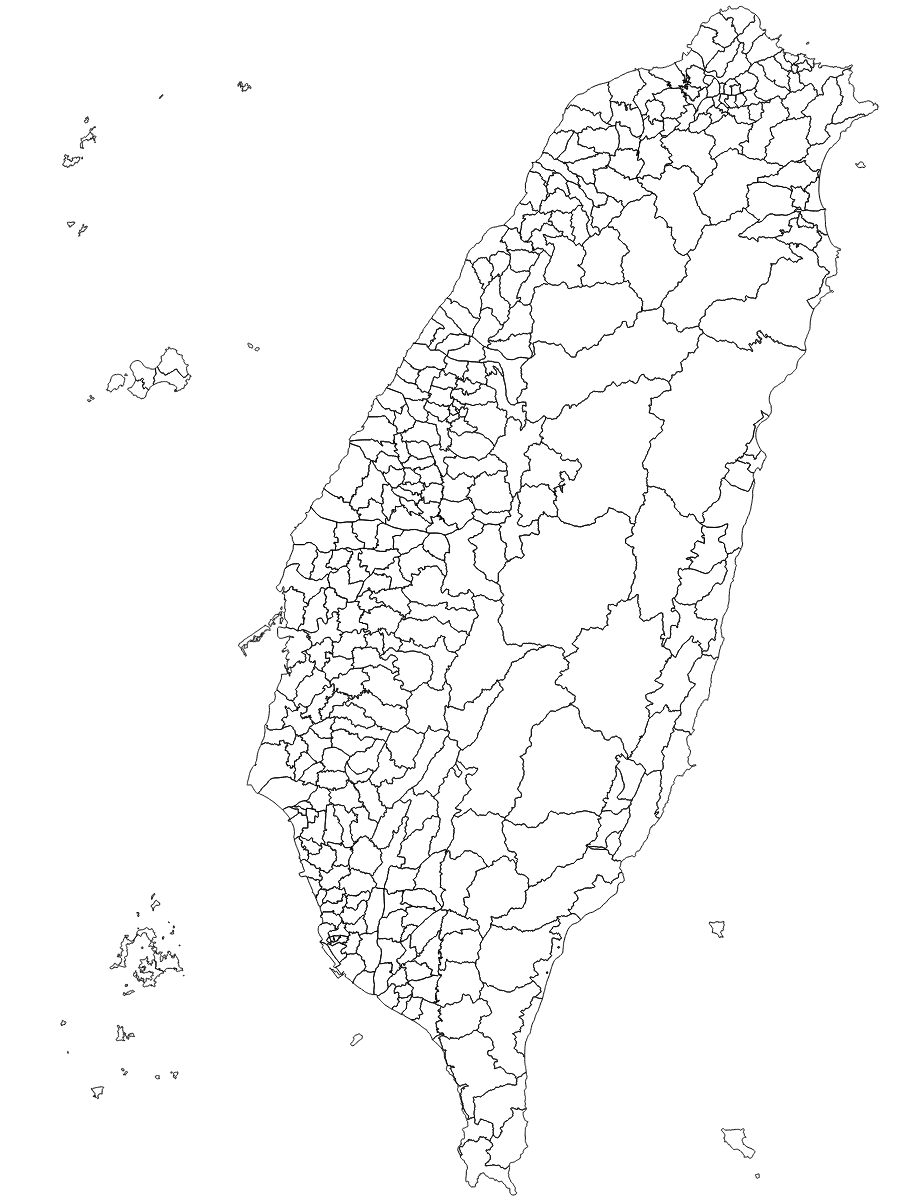
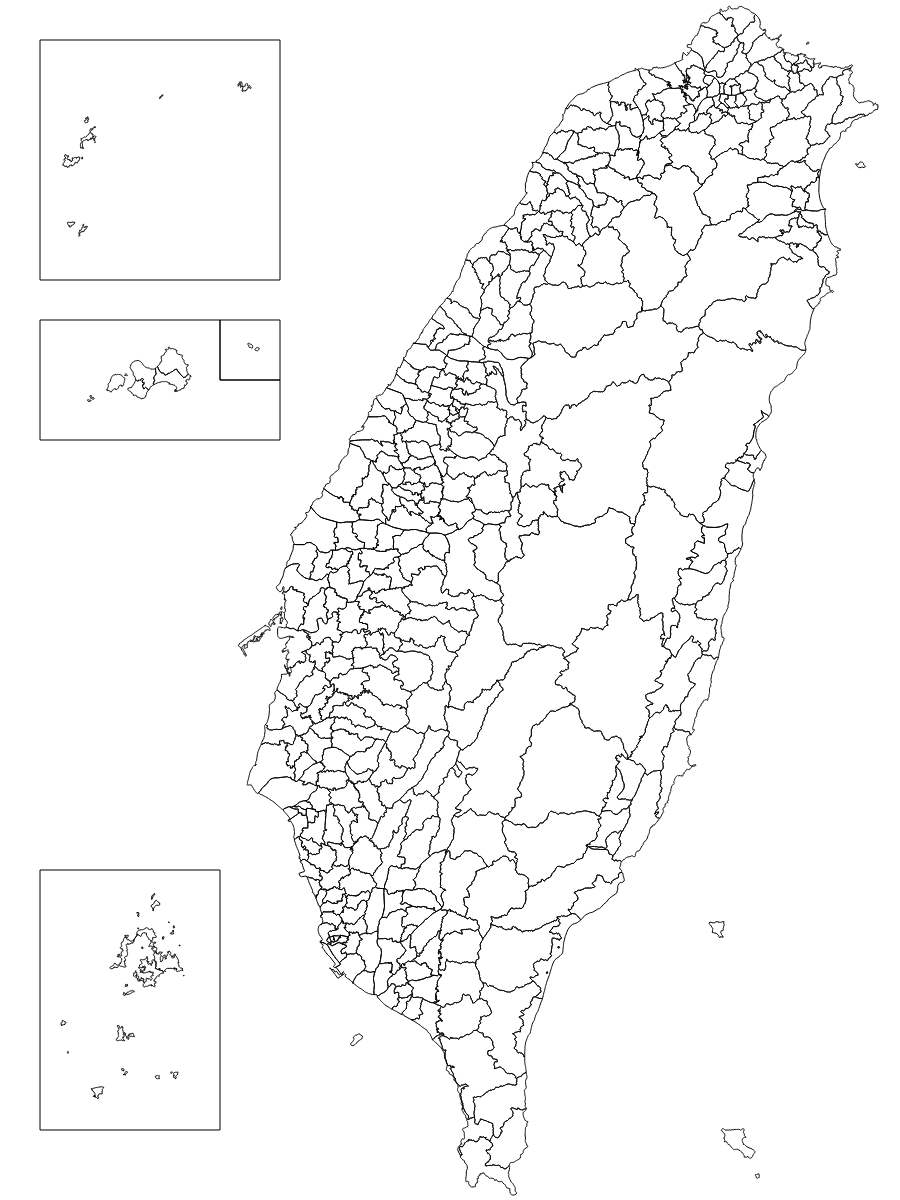
Add Composition Borders (#20)
* Add Composition Borders

* Lint and Tweaks

* lint

diff --git a/src/mercatorTw.js b/src/mercatorTw.js
@@ -177,34 +177,72 @@ export default () => {
   mercatorTw.fitExtent = (extent, object) => fitExtent(mercatorTw, extent, object);
   mercatorTw.fitSize = (size, object) => fitSize(mercatorTw, size, object);
 
-  mercatorTw.drawCompositionBorders = (context) => {
+  // Get the compositionBorderPoints because we want to export these
+  // for use as generating geojson.
+  mercatorTw.compositionBorderPoints = () => {
     const k = mainland.scale();
     const t = mainland.translate();
     const x = t[0];
     const y = t[1];
-    ['penghu', 'lienchiang', 'kinmen', 'wuqiu'].forEach((areaKey) => {
+
+    // Points from top left to bottom left, clockwise.
+    const points = (areaKey) => {
       const areaCenterX = geoCoordinates[areaKey].offsetX;
       const areaCenterY = geoCoordinates[areaKey].offsetY;
-      context.moveTo(
-        x + ((areaCenterX - (geoCoordinates[areaKey].width / 2)) / defaultScale) * k,
-        y + ((areaCenterY - (geoCoordinates[areaKey].height / 2)) / defaultScale) * k,
-      );
-      context.lineTo(
-        x + ((areaCenterX + (geoCoordinates[areaKey].width / 2)) / defaultScale) * k,
-        y + ((areaCenterY - (geoCoordinates[areaKey].height / 2)) / defaultScale) * k,
-      );
-      context.lineTo(
-        x + ((areaCenterX + (geoCoordinates[areaKey].width / 2)) / defaultScale) * k,
-        y + ((areaCenterY + (geoCoordinates[areaKey].height / 2)) / defaultScale) * k,
-      );
-      context.lineTo(
-        x + ((areaCenterX - (geoCoordinates[areaKey].width / 2)) / defaultScale) * k,
-        y + ((areaCenterY + (geoCoordinates[areaKey].height / 2)) / defaultScale) * k,
-      );
-      context.closePath();
+      const dx = geoCoordinates[areaKey].width / 2;
+      const dy = geoCoordinates[areaKey].height / 2;
+      return [
+        [
+          x + ((areaCenterX - dx) / defaultScale) * k,
+          y + ((areaCenterY - dy) / defaultScale) * k,
+        ],
+        [
+          x + ((areaCenterX + dx) / defaultScale) * k,
+          y + ((areaCenterY - dy) / defaultScale) * k,
+        ],
+        [
+          x + ((areaCenterX + dx) / defaultScale) * k,
+          y + ((areaCenterY + dy) / defaultScale) * k,
+        ],
+        [
+          x + ((areaCenterX - dx) / defaultScale) * k,
+          y + ((areaCenterY + dy) / defaultScale) * k,
+        ],
+      ];
+    };
+
+    return ['penghu', 'lienchiang', 'kinmen', 'wuqiu'].map((areaKey) => {
+      const areaPoints = points(areaKey);
+
+      // Kinmen borders wrap under wuqiu borders.
+      if (areaKey === 'kinmen') {
+        const wuqiuPoints = points('wuqiu');
+        return {
+          name: areaKey,
+          coords: [
+            areaPoints[0], wuqiuPoints[0], wuqiuPoints[3], wuqiuPoints[2],
+            areaPoints[2], areaPoints[3], areaPoints[0],
+          ],
+        };
+      }
+      return {
+        name: areaKey,
+        coords: [...areaPoints, areaPoints[0]],
+      };
     });
   };
 
+  // Given a context, draw the borders
+  mercatorTw.drawCompositionBorders = (context) => {
+    mercatorTw.compositionBorderPoints().forEach((areaBorder) => {
+      areaBorder.coords.forEach((coords, i) => {
+        if (i === 0) context.moveTo(...coords);
+        else context.lineTo(...coords);
+      });
+    });
+  };
+
+  // Returns the compositionBorders as an svg path.
   mercatorTw.getCompositionBorders = () => {
     const context = path();
     mercatorTw.drawCompositionBorders(context);

diff --git a/compBordersGeo.js b/compBordersGeo.js
@@ -1,0 +1,43 @@
+// eslint-disable-next-line import/no-unresolved
+const mercatorTw = require('./mercatorTw.cjs.js');
+
+// Initialize Projection
+let merc = mercatorTw();
+
+// Read center from first argument or from defaultCenter
+const translate = process.argv[2] && JSON.parse(process.argv[2]);
+if (translate) merc = merc.translate(translate);
+
+// Read scale from second argument or from defaultScale
+const scale = process.argv[3] && parseInt(process.argv[3], 10);
+if (scale) merc = merc.scale(scale);
+
+// The properties that we will add to the box
+const properties = {
+  lienchiang: {
+    BORDERLEVEL: 'COUNTY', NAME: '連江縣', ID: 'Z', CODE: '09007', ENG: 'Lienchiang County',
+  },
+  penghu: {
+    BORDERLEVEL: 'COUNTY', NAME: '澎湖縣', ID: 'X', CODE: '10016', ENG: 'Penghu County',
+  },
+  kinmen: {
+    BORDERLEVEL: 'COUNTY', NAME: '金門縣', ID: 'W', CODE: '09020', ENG: 'Kinmen County',
+  },
+  wuqiu: {
+    BORDERLEVEL: 'TOWN', NAME: '烏坵鄉', ID: 'W06', CODE: '09020060', ENG: 'Wuqiu Township',
+  },
+};
+
+// Generate the features
+const features = merc.compositionBorderPoints()
+  .map((border) => ({
+    type: 'Feature',
+    geometry: { type: 'Polygon', coordinates: [border.coords] },
+    properties: properties[border.name],
+  }));
+
+// Print to stdout
+features.forEach((feature) => {
+  process.stdout.write(JSON.stringify(feature));
+  process.stdout.write('\n');
+});

diff --git a/README.md b/README.md
@@ -12,7 +12,7 @@ A [TopoJSON file](https://github.com/topojson/topojson-specification/blob/master
 
 <a href="#villages-mercator-10t.json" name="villages-mercator-10t.json">#</a> <b>villages-mercator-10t.json</b> · [Download](https://cdn.jsdelivr.net/npm/taiwan-atlas/villages-mercator-10t.json "Source")
 
-A [TopoJSON file](https://github.com/topojson/topojson-specification/blob/master/README.md#21-topology-objects) containing the geometry collections <i>villages</i>, <i>towns</i>, <i>counties</i>, and <i>nation</i>. The geometry is quantized, simplified, and projected with the mercatorTw projection. This topology is derived from the Ministry of the Interior’s [村里界圖(TWD97經緯度)](https://data.gov.tw/dataset/7438). The town boundaries are computed by [merging](https://github.com/topojson/topojson-client/blob/master/README.md#merge) villages, the county boundaries by merging towns, and the nation boundary is computed by merging counties, ensuring a consistent topology.
+A [TopoJSON file](https://github.com/topojson/topojson-specification/blob/master/README.md#21-topology-objects) containing the geometry collections <i>villages</i>, <i>towns</i>, <i>counties</i>, and <i>nation</i>. The geometry is quantized, simplified, and projected with the mercatorTw projection. This topology is derived from the Ministry of the Interior’s [村里界圖(TWD97經緯度)](https://data.gov.tw/dataset/7438). The town boundaries are computed by [merging](https://github.com/topojson/topojson-client/blob/master/README.md#merge) villages, the county boundaries by merging towns, and the nation boundary is computed by merging counties, ensuring a consistent topology. This file also contains a compBorders object for optionally drawing the borders of the composed areas.
 
 <a href="#towns-10t.json" name="towns-10t.json">#</a> <b>towns-10t.json</b> · [Download](https://cdn.jsdelivr.net/npm/taiwan-atlas/towns-10t.json "Source")
 
@@ -20,7 +20,7 @@ A [TopoJSON file](https://github.com/topojson/topojson-specification/blob/master
 
 <a href="#towns-mercator-10t.json" name="towns-mercator-10t.json">#</a> <b>towns-mercator-10t.json</b> · [Download](https://cdn.jsdelivr.net/npm/taiwan-atlas/towns-mercator-10t.json "Source")
 
-A [TopoJSON file](https://github.com/topojson/topojson-specification/blob/master/README.md#21-topology-objects) containing the geometry collections <i>towns</i>, <i>counties</i>, and <i>nation</i>. The geometry is quantized, simplified, and projected with the mercatorTw projection. This topology is derived from the Ministry of the Interior’s [鄉鎮市區界線(TWD97經緯度)](https://data.gov.tw/dataset/7441). The county boundaries are computed by [merging](https://github.com/topojson/topojson-client/blob/master/README.md#merge) towns and the nation boundaries by merging counties, ensuring a consistent topology.
+A [TopoJSON file](https://github.com/topojson/topojson-specification/blob/master/README.md#21-topology-objects) containing the geometry collections <i>towns</i>, <i>counties</i>, and <i>nation</i>. The geometry is quantized, simplified, and projected with the mercatorTw projection. This topology is derived from the Ministry of the Interior’s [鄉鎮市區界線(TWD97經緯度)](https://data.gov.tw/dataset/7441). The county boundaries are computed by [merging](https://github.com/topojson/topojson-client/blob/master/README.md#merge) towns and the nation boundaries by merging counties, ensuring a consistent topology. This file also contains a compBorders object for optionally drawing the borders of the composed areas.
 
 <a href="#counties-10t.json" name="counties-10t.json">#</a> <b>counties-10t.json</b> · [Download](https://cdn.jsdelivr.net/npm/taiwan-atlas/counties-10t.json "Source")
 
@@ -28,7 +28,7 @@ A [TopoJSON file](https://github.com/topojson/topojson-specification/blob/master
 
 <a href="#counties-mercator-10t.json" name="counties-mercator-10t.json">#</a> <b>counties-mercator-10t.json</b> · [Download](https://cdn.jsdelivr.net/npm/taiwan-atlas/counties-mercator-10t.json "Source")
 
-A [TopoJSON file](https://github.com/topojson/topojson-specification/blob/master/README.md#21-topology-objects) containing the geometry collections <i>counties</i> and <i>nation</i>. The geometry is quantized, simplified, and projected with the mercatorTw projection. This topology is derived from the Ministry of the Interior’s [直轄市、縣市界線(TWD97經緯度)](https://data.gov.tw/dataset/7442). The nation boundaries are computed by [merging](https://github.com/topojson/topojson-client/blob/master/README.md#merge) counties, ensuring a consistent topology.
+A [TopoJSON file](https://github.com/topojson/topojson-specification/blob/master/README.md#21-topology-objects) containing the geometry collections <i>counties</i> and <i>nation</i>. The geometry is quantized, simplified, and projected with the mercatorTw projection. This topology is derived from the Ministry of the Interior’s [直轄市、縣市界線(TWD97經緯度)](https://data.gov.tw/dataset/7442). The nation boundaries are computed by [merging](https://github.com/topojson/topojson-client/blob/master/README.md#merge) counties, ensuring a consistent topology. This file also contains a compBorders object for optionally drawing the borders of the composed areas.
 
 <a href="#nation-10t.json" name="nation-10t.json">#</a> <b>nation-10t.json</b> · [Download](https://cdn.jsdelivr.net/npm/taiwan-atlas/nation-10t.json "Source")
 
@@ -36,7 +36,7 @@ A [TopoJSON file](https://github.com/topojson/topojson-specification/blob/master
 
 <a href="#nation-mercator-10t.json" name="nation-mercator-10t.json">#</a> <b>nation-mercator-10t.json</b> · [Download](https://cdn.jsdelivr.net/npm/taiwan-atlas/nation-mercator-10t.json "Source")
 
-A [TopoJSON file](https://github.com/topojson/topojson-specification/blob/master/README.md#21-topology-objects) containing the geometry collections <i>nation</i>. The geometry is quantized, simplified, and projected with the mercatorTw projection. This topology is derived from the Ministry of the Interior’s [直轄市、縣市界線(TWD97經緯度)](https://data.gov.tw/dataset/7442).
+A [TopoJSON file](https://github.com/topojson/topojson-specification/blob/master/README.md#21-topology-objects) containing the geometry collections <i>nation</i>. The geometry is quantized, simplified, and projected with the mercatorTw projection. This topology is derived from the Ministry of the Interior’s [直轄市、縣市界線(TWD97經緯度)](https://data.gov.tw/dataset/7442). This file also contains a compBorders object for optionally drawing the borders of the composed areas.
 
 <a href="#tw.objects.nation" name="tw.objects.nation">#</a> tw.objects<b>.nation</b>
 
@@ -76,9 +76,18 @@ The village object has the following fields in addition to the town and county f
 - village.properties.VILLID - The village specifying id
 - village.properties.VILLCODE - The 11 digit county code
 
+The compBorders object has the following fields:
+- compBorders.properties.BORDERLEVEL - The administrative level that this border encompasses.
+- compBorders.properties.NAME - The name in Chinese of the administrative area that this border encompasses.
+- compBorders.properties.ID - The id of the administrative area that this border encompasses.
+- compBorders.properties.CODE - The name of the administrative area that this border encompasses.
+- compBorders.properties.ENG - The name in English of the administrative area that this border encompasses.
+
 ## MercatorTw Projection
 
 `mercatorTw.js` uses a Taiwan-centric composite projection of four [d3.geoMercator](https://github.com/d3/d3-geo#geoMercator) projections: One for the main island, and one for each of Penghu, Kinmen, Lienchiang, and Wuqiu respectively.
+
+`mercatorTw.getCompositionBorders()` returns a svg path string of the borders, given the current scale and translation.
 
 This package exports the mercatorTw projection and can be used in your own projects.
 
